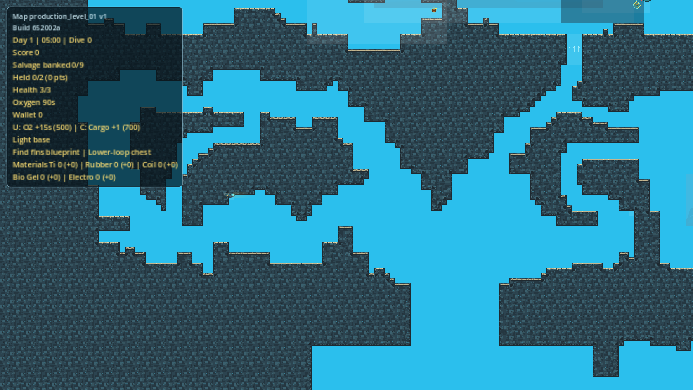
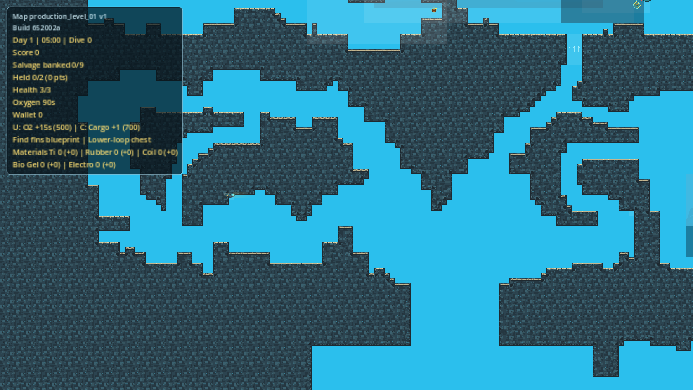
Accept Expansion 11 visual baseline (#912)

Changed region(s): [[0.0, 0.3385, 0.2727, 0.4923], [0.9697, 0.5846, 1.0, 0.6769]]

diff --git a/docs/current/OCEANGAME_EXPANSION_11_VISUAL_BASELINE_DECISION.md b/docs/current/OCEANGAME_EXPANSION_11_VISUAL_BASELINE_DECISION.md
@@ -1,0 +1,52 @@
+# OceanGame Expansion 11 Visual Baseline Decision
+
+Date: 2026-07-14
+
+Issue: #912 `Review and accept intentional Expansion 11 visual changes`
+
+## Decision
+
+**Accepted** the intentional Expansion 11 changes in the existing
+`production_level_01` baseline. The accepted source capture is exact commit
+`72ee4ec72993ea1e7664f9b5dcac1e3567b041fc`, after the source, runtime,
+integrated journey, and focused capture issues merged.
+
+No production-slice baseline changed. No `.import` sidecar was accepted.
+
+## Intentional Differences
+
+All 14 configured full-level views changed at desktop and mobile sizes because
+the obsolete `L: Light +range (900)` score-purchase line was removed from the
+status overlay. The overview, lower-right context, and visible wide-frame edge
+also include the source-authorized deep-harmonic dark zone and survey target.
+
+Focused evidence under
+`visual_captures/expansion_11_deep_harmonic_light/` was inspected at both
+supported sizes. It shows the pre-light requirement once, the exact incomplete
+light recipe, post-light 50% survey progress without stale requirement text,
+and a completed survey still pending the boat return.
+
+## Stable Areas
+
+Terrain topology and silhouette, collision-facing terrain edges, the boat,
+diver, current route, Signal Reef landmark, unrelated props and HUD content,
+camera framing, and touch controls remained stable across the reviewed views.
+
+The accepted slice-01 through slice-04 baselines and their comparison sheets
+remained unchanged. No map source, runtime, asset, topology, camera definition,
+or unrelated capture changed during this review.
+
+## Verification
+
+```powershell
+& 'C:\Program Files\Godot\Godot_v4.7-stable_win64.exe\Godot_v4.7-stable_win64_console.exe' --path . --capture-expansion-09-full-level
+python tools/manage_production_slice_baseline.py compare-all
+python tools/manage_production_slice_baseline.py --slice production_level_01 accept
+python tools/manage_production_slice_baseline.py compare-all
+python tools/manage_production_slice_baseline.py check-clean --all-slices
+python tools/check_file_lengths.py
+git diff --check
+```
+
+Every configured post-accept full-level difference panel is black. Exact-SHA
+public Web verification remains scoped to #913.
